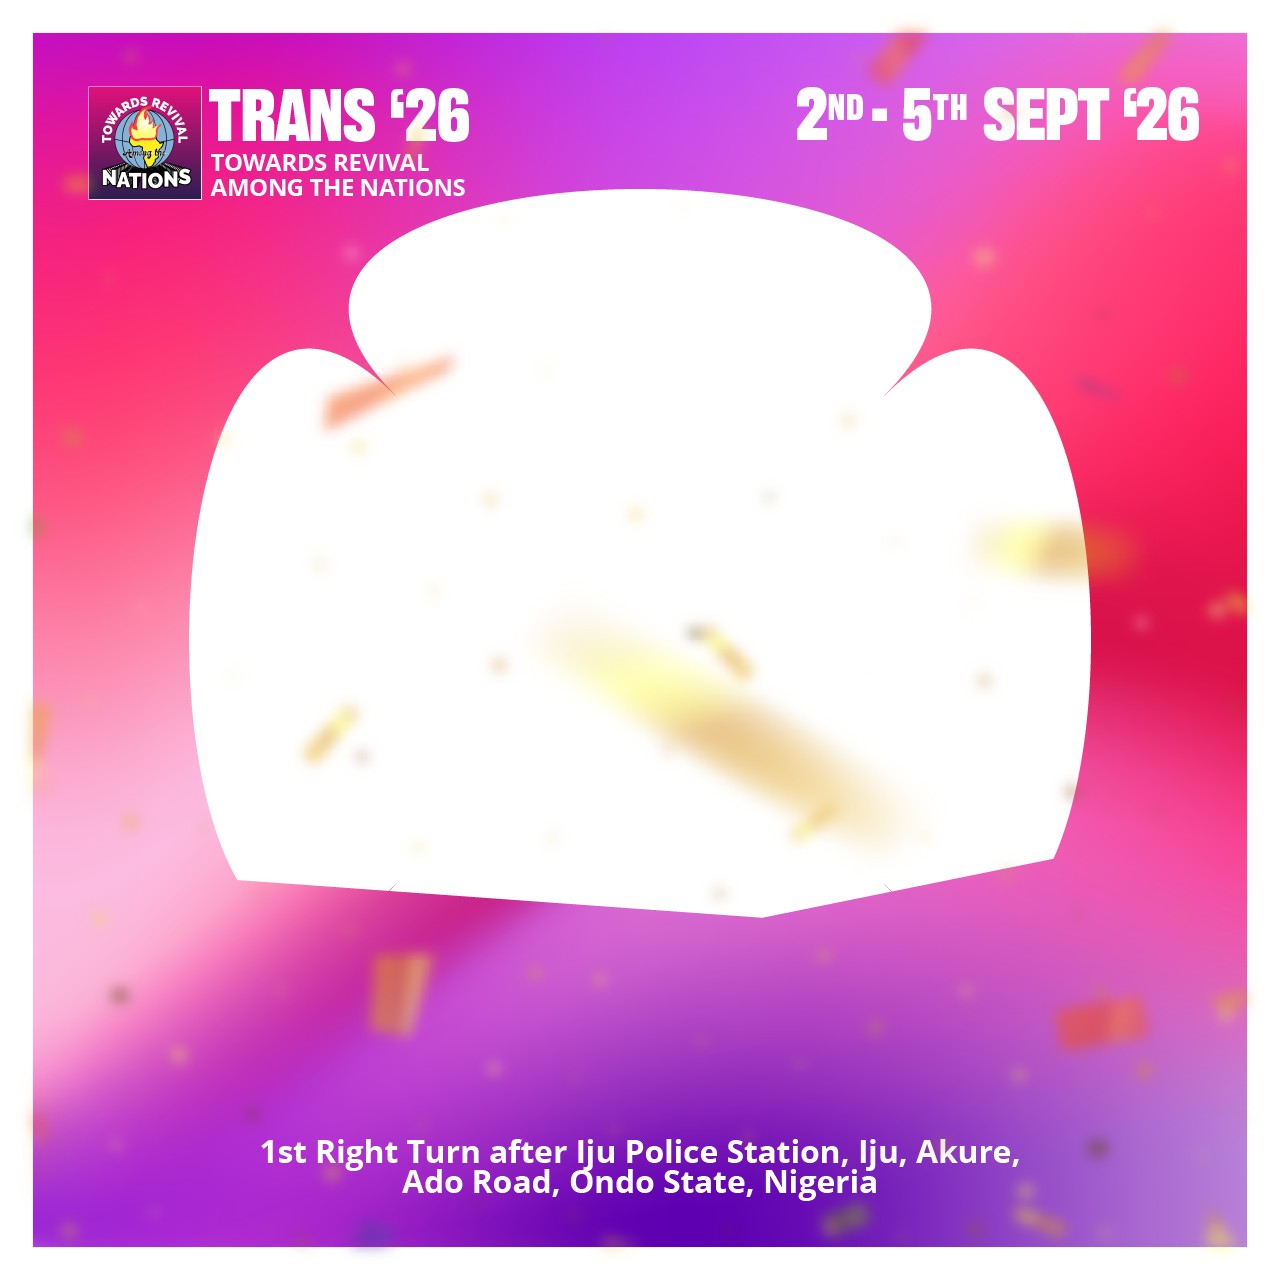
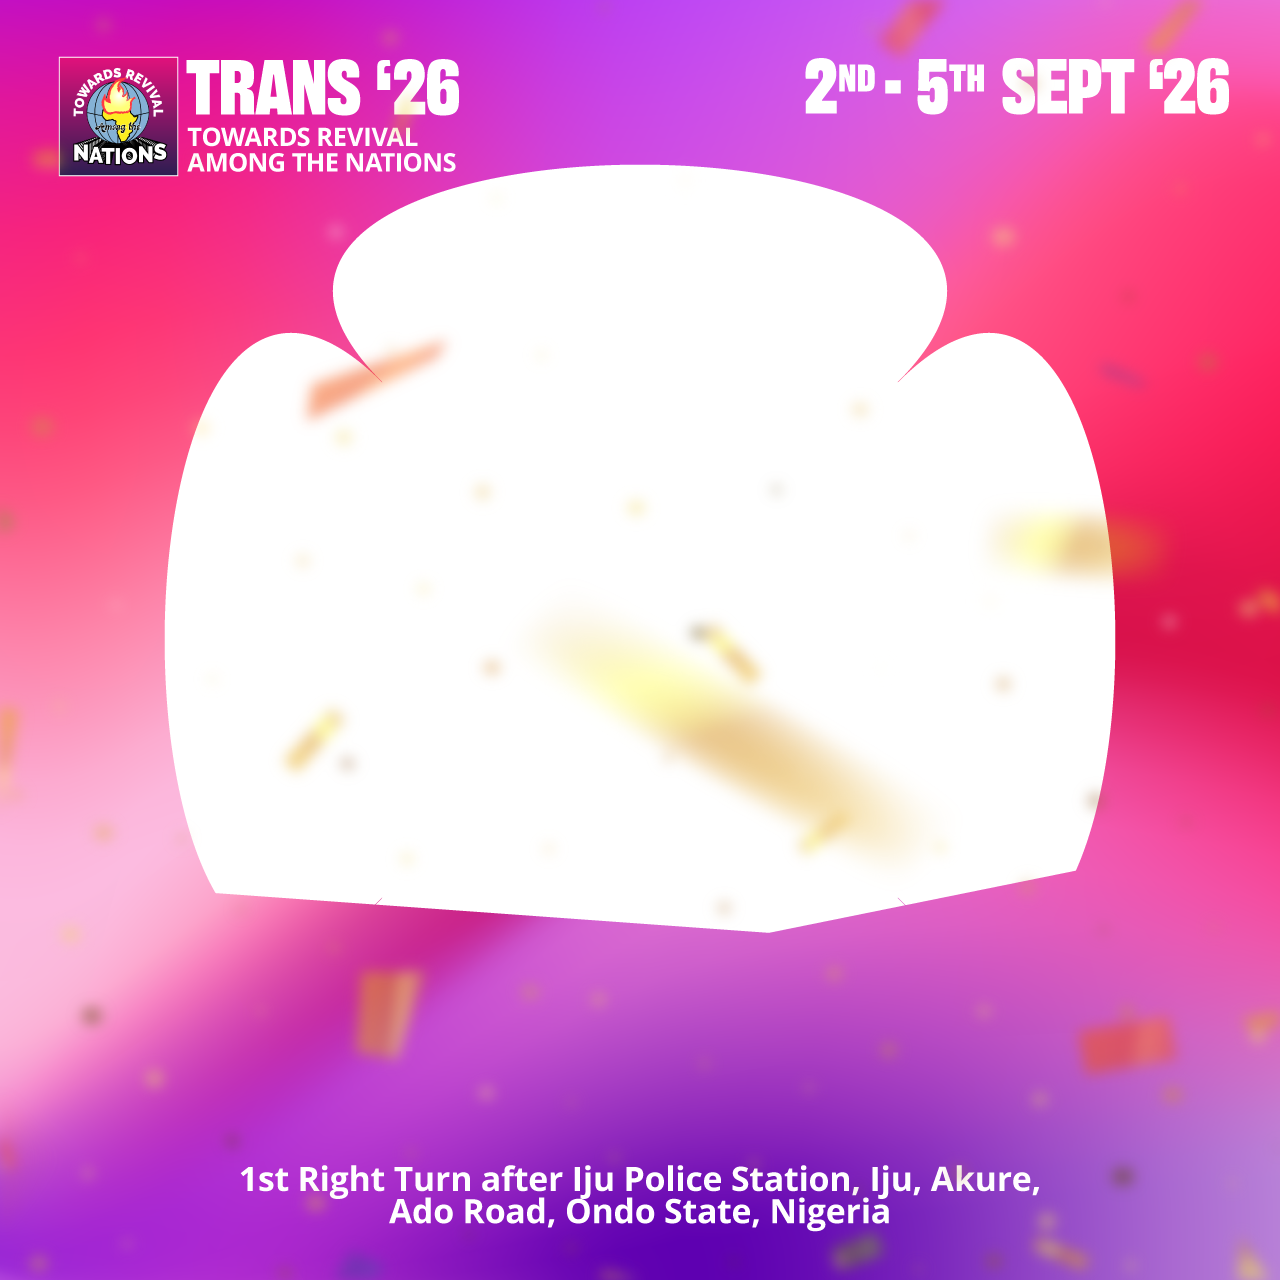
fixed the text rotation and position on ribbons

diff --git a/script.js b/script.js
@@ -2,13 +2,22 @@
 const PREVIEW_SIZE = 1080; // internal preview resolution
 const EXPORT_SIZE = 1280; // export resolution
 
-const FRAME_SIZE = 1280; // full frame image dimensions
+const FRAME_SIZE = 1280; // native resolution of background/frame/ribbon assets
 const PHOTO_SIZE = 1050; // size of the transparent cutout in the frame, centered
 const PHOTO_RATIO = PHOTO_SIZE / FRAME_SIZE;
 
-// The photo-positioning area in preview coordinates (centered inside the canvas)
 const PHOTO_AREA_PREVIEW = PREVIEW_SIZE * PHOTO_RATIO;
 const PHOTO_INSET_PREVIEW = (PREVIEW_SIZE - PHOTO_AREA_PREVIEW) / 2;
+
+const MAX_NAME_LENGTH = 13;
+
+// Ribbon text anchor points — measured against the native 1280px assets,
+// using the text baseline (matches Canvas's default textBaseline behavior).
+const RIBBON_TEXT = {
+  bottom: { x: 640, y: 1010, angleDeg: 11.452, color: "#d1d1d1" },
+  top: { x: 640, y: 972, angleDeg: 355.889, color: "#ffffff" },
+};
+const RIBBON_FONT_SIZE = 47.2; // in 1280-reference px — from Illustrator (47.2pt, assumed 72ppi doc)
 
 const uploadBox = document.getElementById("uploadBox");
 const uploadBtn = document.getElementById("uploadBtn");
@@ -30,21 +39,56 @@ const errorToast = document.getElementById("error");
 const successState = document.getElementById("successState");
 const makeAnotherBtn = document.getElementById("makeAnotherBtn");
 
+const nameInput = document.getElementById("nameInput");
+const charCount = document.getElementById("charCount");
+
 canvas.width = PREVIEW_SIZE;
 canvas.height = PREVIEW_SIZE;
 
-/* frame overlay */
-const frame = new Image();
-let frameLoaded = false;
-let frameFailed = false;
+/* ---------- Asset loading ---------- */
+function loadImg(src) {
+  const img = new Image();
+  img.src = src;
+  return img;
+}
 
-frame.onload = () => {
-  frameLoaded = true;
-};
-frame.onerror = () => {
-  frameFailed = true;
-};
-frame.src = "frame-1.png";
+const background = loadImg("background.png");
+const bottomRibbon = loadImg("bottom-ribbon.png");
+const topRibbon = loadImg("top-ribbon.png");
+
+let assetsReady = false;
+const assetList = [background, bottomRibbon, topRibbon];
+let loadedCount = 0;
+
+assetList.forEach((img) => {
+  img.onload = () => {
+    loadedCount++;
+    if (loadedCount === assetList.length) {
+      assetsReady = true;
+      if (userLoaded) draw();
+    }
+  };
+  img.onerror = () => {
+    showError(
+      "Something didn't load properly. Please check your internet and try again.",
+    );
+  };
+});
+
+let fontReady = false;
+if (document.fonts && document.fonts.load) {
+  document.fonts
+    .load(`${RIBBON_FONT_SIZE}px Frick`)
+    .then(() => {
+      fontReady = true;
+      if (userLoaded) draw();
+    })
+    .catch(() => {
+      fontReady = true; // fall back silently, browser default font will render instead
+    });
+} else {
+  fontReady = true;
+}
 
 /* state */
 let userImg = new Image();
@@ -63,6 +107,27 @@ function showError(msg) {
   errorToast.style.display = "block";
   setTimeout(() => (errorToast.style.display = "none"), 3000);
 }
+
+/* ---------- Name field ---------- */
+function currentName() {
+  const val = nameInput.value.trim();
+  return val.length ? val : "I";
+}
+
+function buildRibbonText() {
+  const phrase = `${currentName()} WILL BE AT TRANS 2026`.toUpperCase();
+  return Array(4).fill(phrase).join(" • ");
+}
+
+function updateCharCount() {
+  charCount.textContent = `${nameInput.value.length} / ${MAX_NAME_LENGTH}`;
+}
+
+nameInput.addEventListener("input", () => {
+  updateCharCount();
+  if (userLoaded) draw();
+});
+updateCharCount();
 
 /* ---------- Core math: constraints & draw ---------- */
 function clampTransform() {
@@ -97,11 +162,30 @@ function clampTransform() {
   }
 }
 
+function drawRibbonText(targetCtx, anchor, rf) {
+  const text = buildRibbonText();
+  const x = anchor.x * rf;
+  const y = anchor.y * rf;
+  const angleRad = (anchor.angleDeg * Math.PI) / 180;
+  const fontSize = RIBBON_FONT_SIZE * rf;
+
+  targetCtx.save();
+  targetCtx.translate(x, y);
+  targetCtx.rotate(-angleRad);
+  targetCtx.font = `${fontSize}px Frick, sans-serif`;
+  targetCtx.fillStyle = anchor.color;
+  targetCtx.textAlign = "center";
+  targetCtx.textBaseline = "alphabetic";
+  targetCtx.fillText(text, 0, 0);
+  targetCtx.restore();
+}
+
 function draw(targetCanvas = canvas, targetCtx = ctx, size = PREVIEW_SIZE) {
   if (!userLoaded) return;
 
   clampTransform();
-  const sf = size / PREVIEW_SIZE;
+  const sf = size / PREVIEW_SIZE; // scale for user photo (working in PREVIEW_SIZE coord space)
+  const rf = size / FRAME_SIZE; // scale for fixed-position layered assets (native 1280 ref)
 
   const iw_out = userImg.width * scale * sf;
   const ih_out = userImg.height * scale * sf;
@@ -111,10 +195,28 @@ function draw(targetCanvas = canvas, targetCtx = ctx, size = PREVIEW_SIZE) {
   targetCanvas.width = size;
   targetCanvas.height = size;
   targetCtx.clearRect(0, 0, size, size);
+  targetCtx.imageSmoothingEnabled = true;
+  targetCtx.imageSmoothingQuality = "high";
+
+  // 1. user photo (bottommost)
   targetCtx.drawImage(userImg, offsetX_out, offsetY_out, iw_out, ih_out);
-  if (frame.complete && frame.naturalWidth > 0) {
-    targetCtx.drawImage(frame, 0, 0, size, size);
+
+  // 2. background — has a transparent cutout revealing the photo, plus border art baked in
+  if (background.complete && background.naturalWidth > 0) {
+    targetCtx.drawImage(background, 0, 0, size, size);
   }
+
+  // 3. bottom ribbon + name text
+  if (bottomRibbon.complete && bottomRibbon.naturalWidth > 0) {
+    targetCtx.drawImage(bottomRibbon, 0, 0, size, size);
+  }
+  drawRibbonText(targetCtx, RIBBON_TEXT.bottom, rf);
+
+  // 4. top ribbon + name text
+  if (topRibbon.complete && topRibbon.naturalWidth > 0) {
+    targetCtx.drawImage(topRibbon, 0, 0, size, size);
+  }
+  drawRibbonText(targetCtx, RIBBON_TEXT.top, rf);
 }
 
 /* ---------- File handling & UI ---------- */
@@ -187,14 +289,7 @@ zoomEl.addEventListener("input", () => {
 downloadBtn.addEventListener("click", () => {
   if (!userLoaded) return;
 
-  if (frameFailed) {
-    showError(
-      "Something didn't load properly. Please check your internet and try again.",
-    );
-    return;
-  }
-
-  if (!frameLoaded) {
+  if (!assetsReady) {
     showError("Almost ready — please wait a few seconds and try again.");
     return;
   }

diff --git a/index.html b/index.html
@@ -4,6 +4,8 @@
     <meta charset="utf-8" />
     <meta name="viewport" content="width=device-width,initial-scale=1" />
     <title>Trans DP Maker</title>
+    <link rel="icon" type="image/png" href="favicon.png" />
+    <link rel="apple-touch-icon" href="favicon.png" />
     <meta
       name="description"
       content="Upload your photo, add the official frame, and show your friends you're coming to TRANS 2026."
@@ -14,7 +16,7 @@
     />
     <meta
       property="og:description"
-      content="Upload your photo, add the official TRANS '26 frame, and share it to let others know you'll be at TRANS 2026."
+      content="Upload your photo, add the official frame, and share it to let others know you'll be at TRANS 2026."
     />
     <meta
       property="og:image"
@@ -35,8 +37,6 @@
       name="twitter:image"
       content="https://trans-dp-maker.vercel.app/share-preview.png"
     />
-    <link rel="icon" type="image/png" href="favicon.png" />
-    <link rel="apple-touch-icon" href="favicon.png" />
     <link rel="preconnect" href="https://fonts.googleapis.com" />
     <link rel="preconnect" href="https://fonts.gstatic.com" crossorigin />
     <link
@@ -50,7 +50,7 @@
       <div class="eyebrow">
         <span class="dot"></span>TRANS 2026 · Towards Revival Among The Nations
       </div>
-      <h1>Show your friends<br />you're coming to TRANS 2026.</h1>
+      <h1>Show your friends<br />you're coming.</h1>
       <p>
         Upload your photo, add the official frame, and share it to let others
         know you'll be at TRANS 2026.
@@ -58,6 +58,21 @@
     </div>
 
     <div class="card">
+      <!-- Name field -->
+      <div class="field-label">
+        Your Name <span class="count" id="charCount">1 / 13</span>
+      </div>
+      <input
+        id="nameInput"
+        type="text"
+        maxlength="13"
+        value="I"
+        autocomplete="off"
+      />
+      <div class="field-hint">
+        Short names look best — try Dami, Dammy, or Damilola.
+      </div>
+
       <!-- Upload area -->
       <div id="uploadArea">
         <div id="uploadBox" tabindex="0" role="button">

diff --git a/style.css b/style.css
@@ -1,3 +1,11 @@
+@font-face {
+  font-family: "Frick";
+  src: url("Frick0.3-Condensed.otf") format("opentype");
+  font-weight: 400;
+  font-style: normal;
+  font-display: block;
+}
+
 :root {
   --blue: #5bcefa;
   --pink: #f5a9b8;
@@ -98,6 +106,49 @@ h1 {
     0 1px 2px rgba(20, 21, 26, 0.04),
     0 24px 60px -20px rgba(20, 21, 26, 0.22);
   border: 1px solid rgba(20, 21, 26, 0.05);
+}
+
+/* Name field */
+.field-label {
+  font-size: 12px;
+  font-weight: 700;
+  color: var(--muted);
+  text-transform: uppercase;
+  letter-spacing: 0.08em;
+  margin-bottom: 8px;
+  display: flex;
+  justify-content: space-between;
+}
+
+.field-label .count {
+  text-transform: none;
+  letter-spacing: 0;
+  font-weight: 500;
+  color: var(--faint);
+}
+
+#nameInput {
+  width: 100%;
+  padding: 14px 16px;
+  font-family: "Lato", sans-serif;
+  font-size: 16px;
+  font-weight: 700;
+  color: var(--ink);
+  border: 1.5px solid var(--line);
+  border-radius: var(--radius-sm);
+  outline: none;
+  transition: border-color 0.15s ease;
+  margin-bottom: 6px;
+}
+
+#nameInput:focus {
+  border-color: var(--pink);
+}
+
+.field-hint {
+  font-size: 12px;
+  color: var(--faint);
+  margin-bottom: 20px;
 }
 
 /* Upload area */
